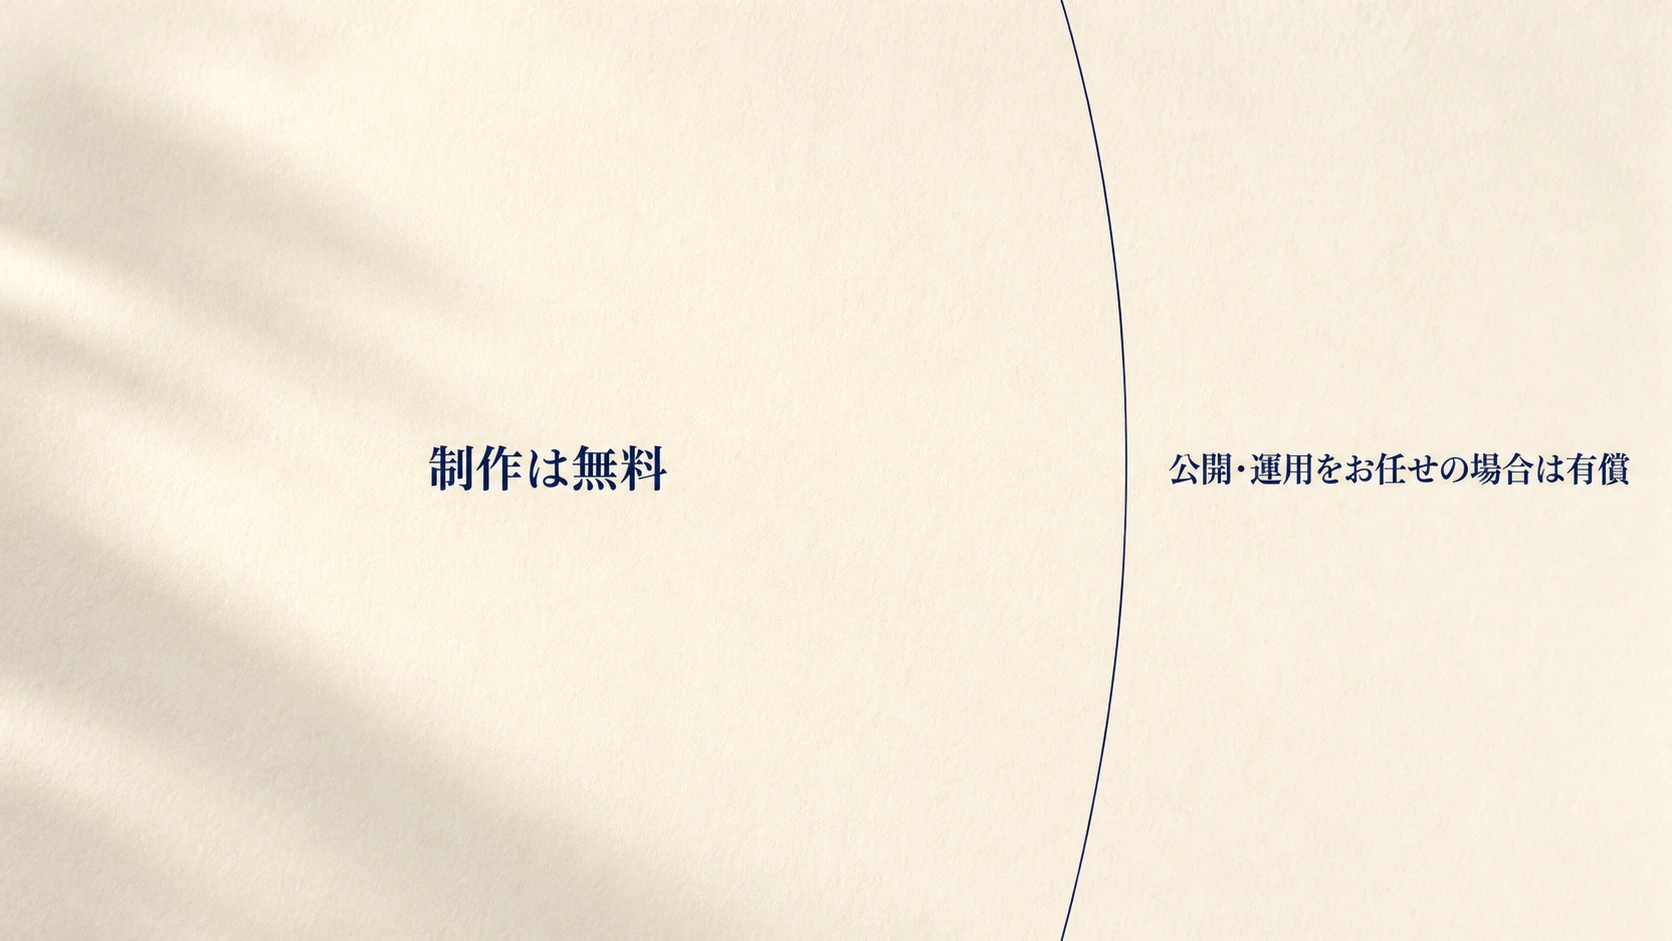
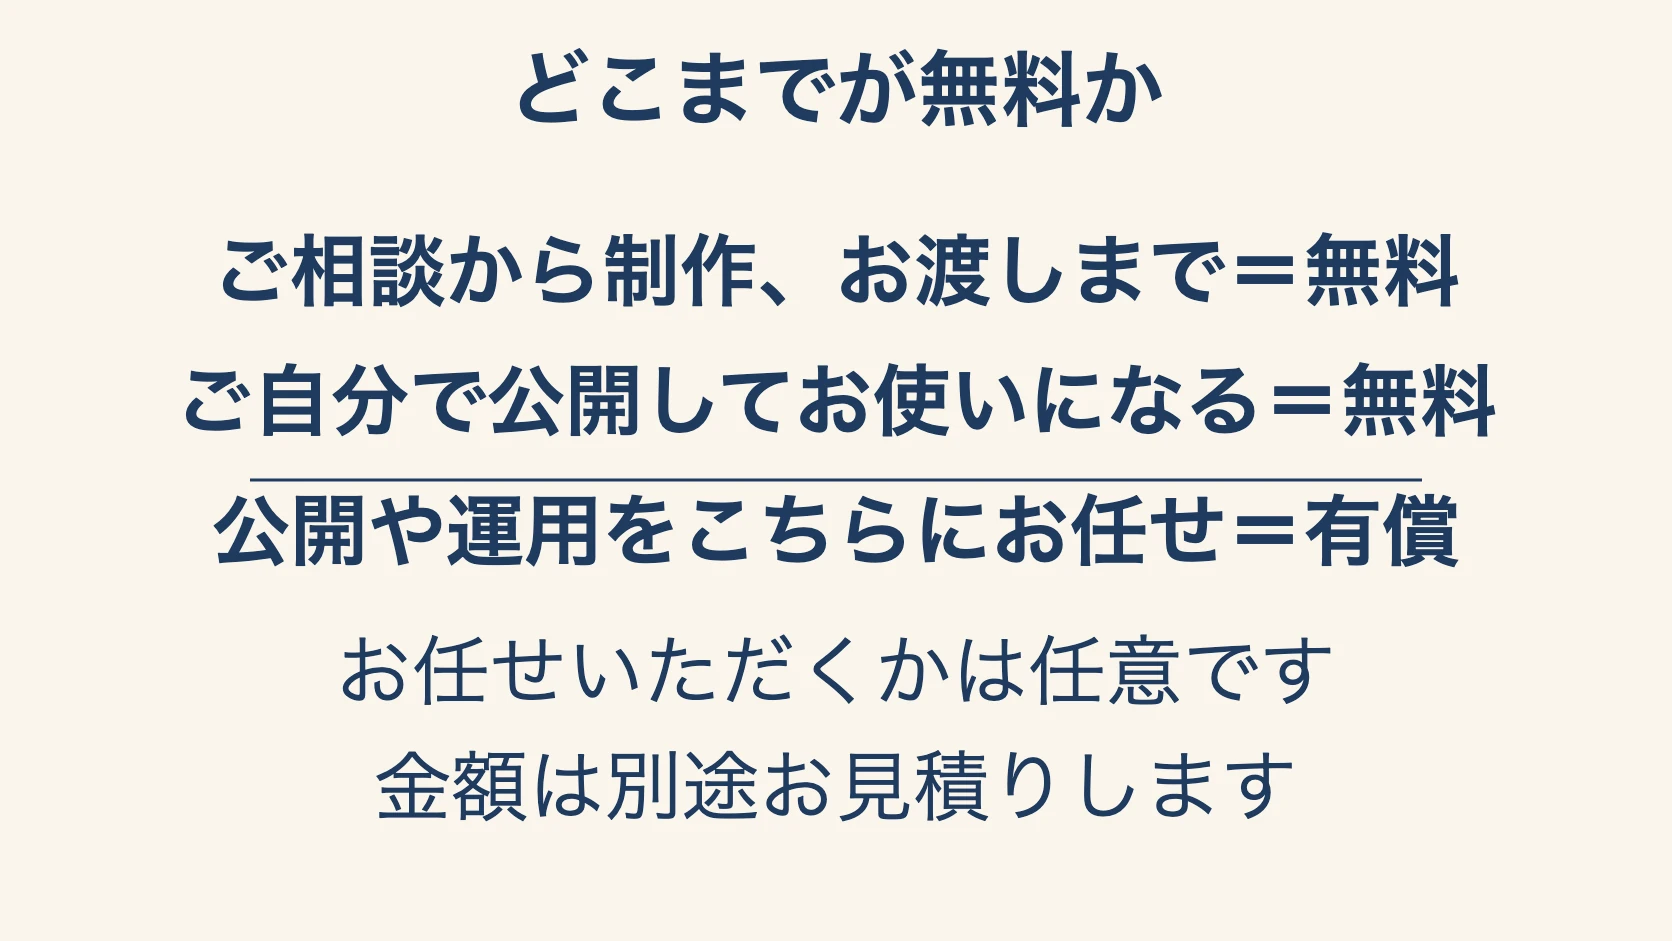
図版「どこまでが無料か」を無料と有償が対等な組みに差し替え、フォーム前にも配置
事業リポジトリで原稿から組み立て直した scope.webp（1672×941、無料と有償の
三行が同じ大きさ・同じ太さ）に差し替える。説明文（alt）を焼き込んだ文字列と
逐語で一致させ、なぜ無料かの節に加えてフォーム直前にも同じ図版を置き、
送信の直前でもう一度境目を示す。

Changed region(s): [[0.0, 0.0308, 0.9952, 1.0], [0.311, 0.0308, 0.7153, 0.1541], [0.4976, 0.2465, 0.8708, 0.339]]

diff --git a/src/lp/sections/Contact.tsx b/src/lp/sections/Contact.tsx
@@ -75,6 +75,13 @@ export function Contact() {
         alt="窓からの光が横に入る木の机で、両手がノートパソコンに文字を打っている情景"
         loading="lazy"
       />
+      <FullImage
+        src="/lp/scope.webp"
+        width={1672}
+        height={941}
+        alt="「どこまでが無料か」という題のもと、「ご相談から制作、お渡しまで＝無料」「ご自分で公開してお使いになる＝無料」「公開や運用をこちらにお任せ＝有償」「お任せいただくかは任意です」「金額は別途お見積りします」の六つの語句が並ぶ図解"
+        loading="lazy"
+      />
       <div className="wrap">
         <form className="lp-contact-form" onSubmit={handleSubmit} ref={formRef} noValidate>
           <input type="checkbox" name="botcheck" style={{ display: 'none' }} tabIndex={-1} />

diff --git a/src/lp/sections/WhyFree.tsx b/src/lp/sections/WhyFree.tsx
@@ -39,7 +39,7 @@ export function WhyFree() {
         src="/lp/scope.webp"
         width={1672}
         height={941}
-        alt="制作は無料、公開・運用をお任せの場合は有償。無料の範囲と有償になる場合の境目を、面積の異なる二つの面に分けて示した図解"
+        alt="「どこまでが無料か」という題のもと、「ご相談から制作、お渡しまで＝無料」「ご自分で公開してお使いになる＝無料」「公開や運用をこちらにお任せ＝有償」「お任せいただくかは任意です」「金額は別途お見積りします」の六つの語句が並ぶ図解"
         loading="lazy"
       />
     </section>
